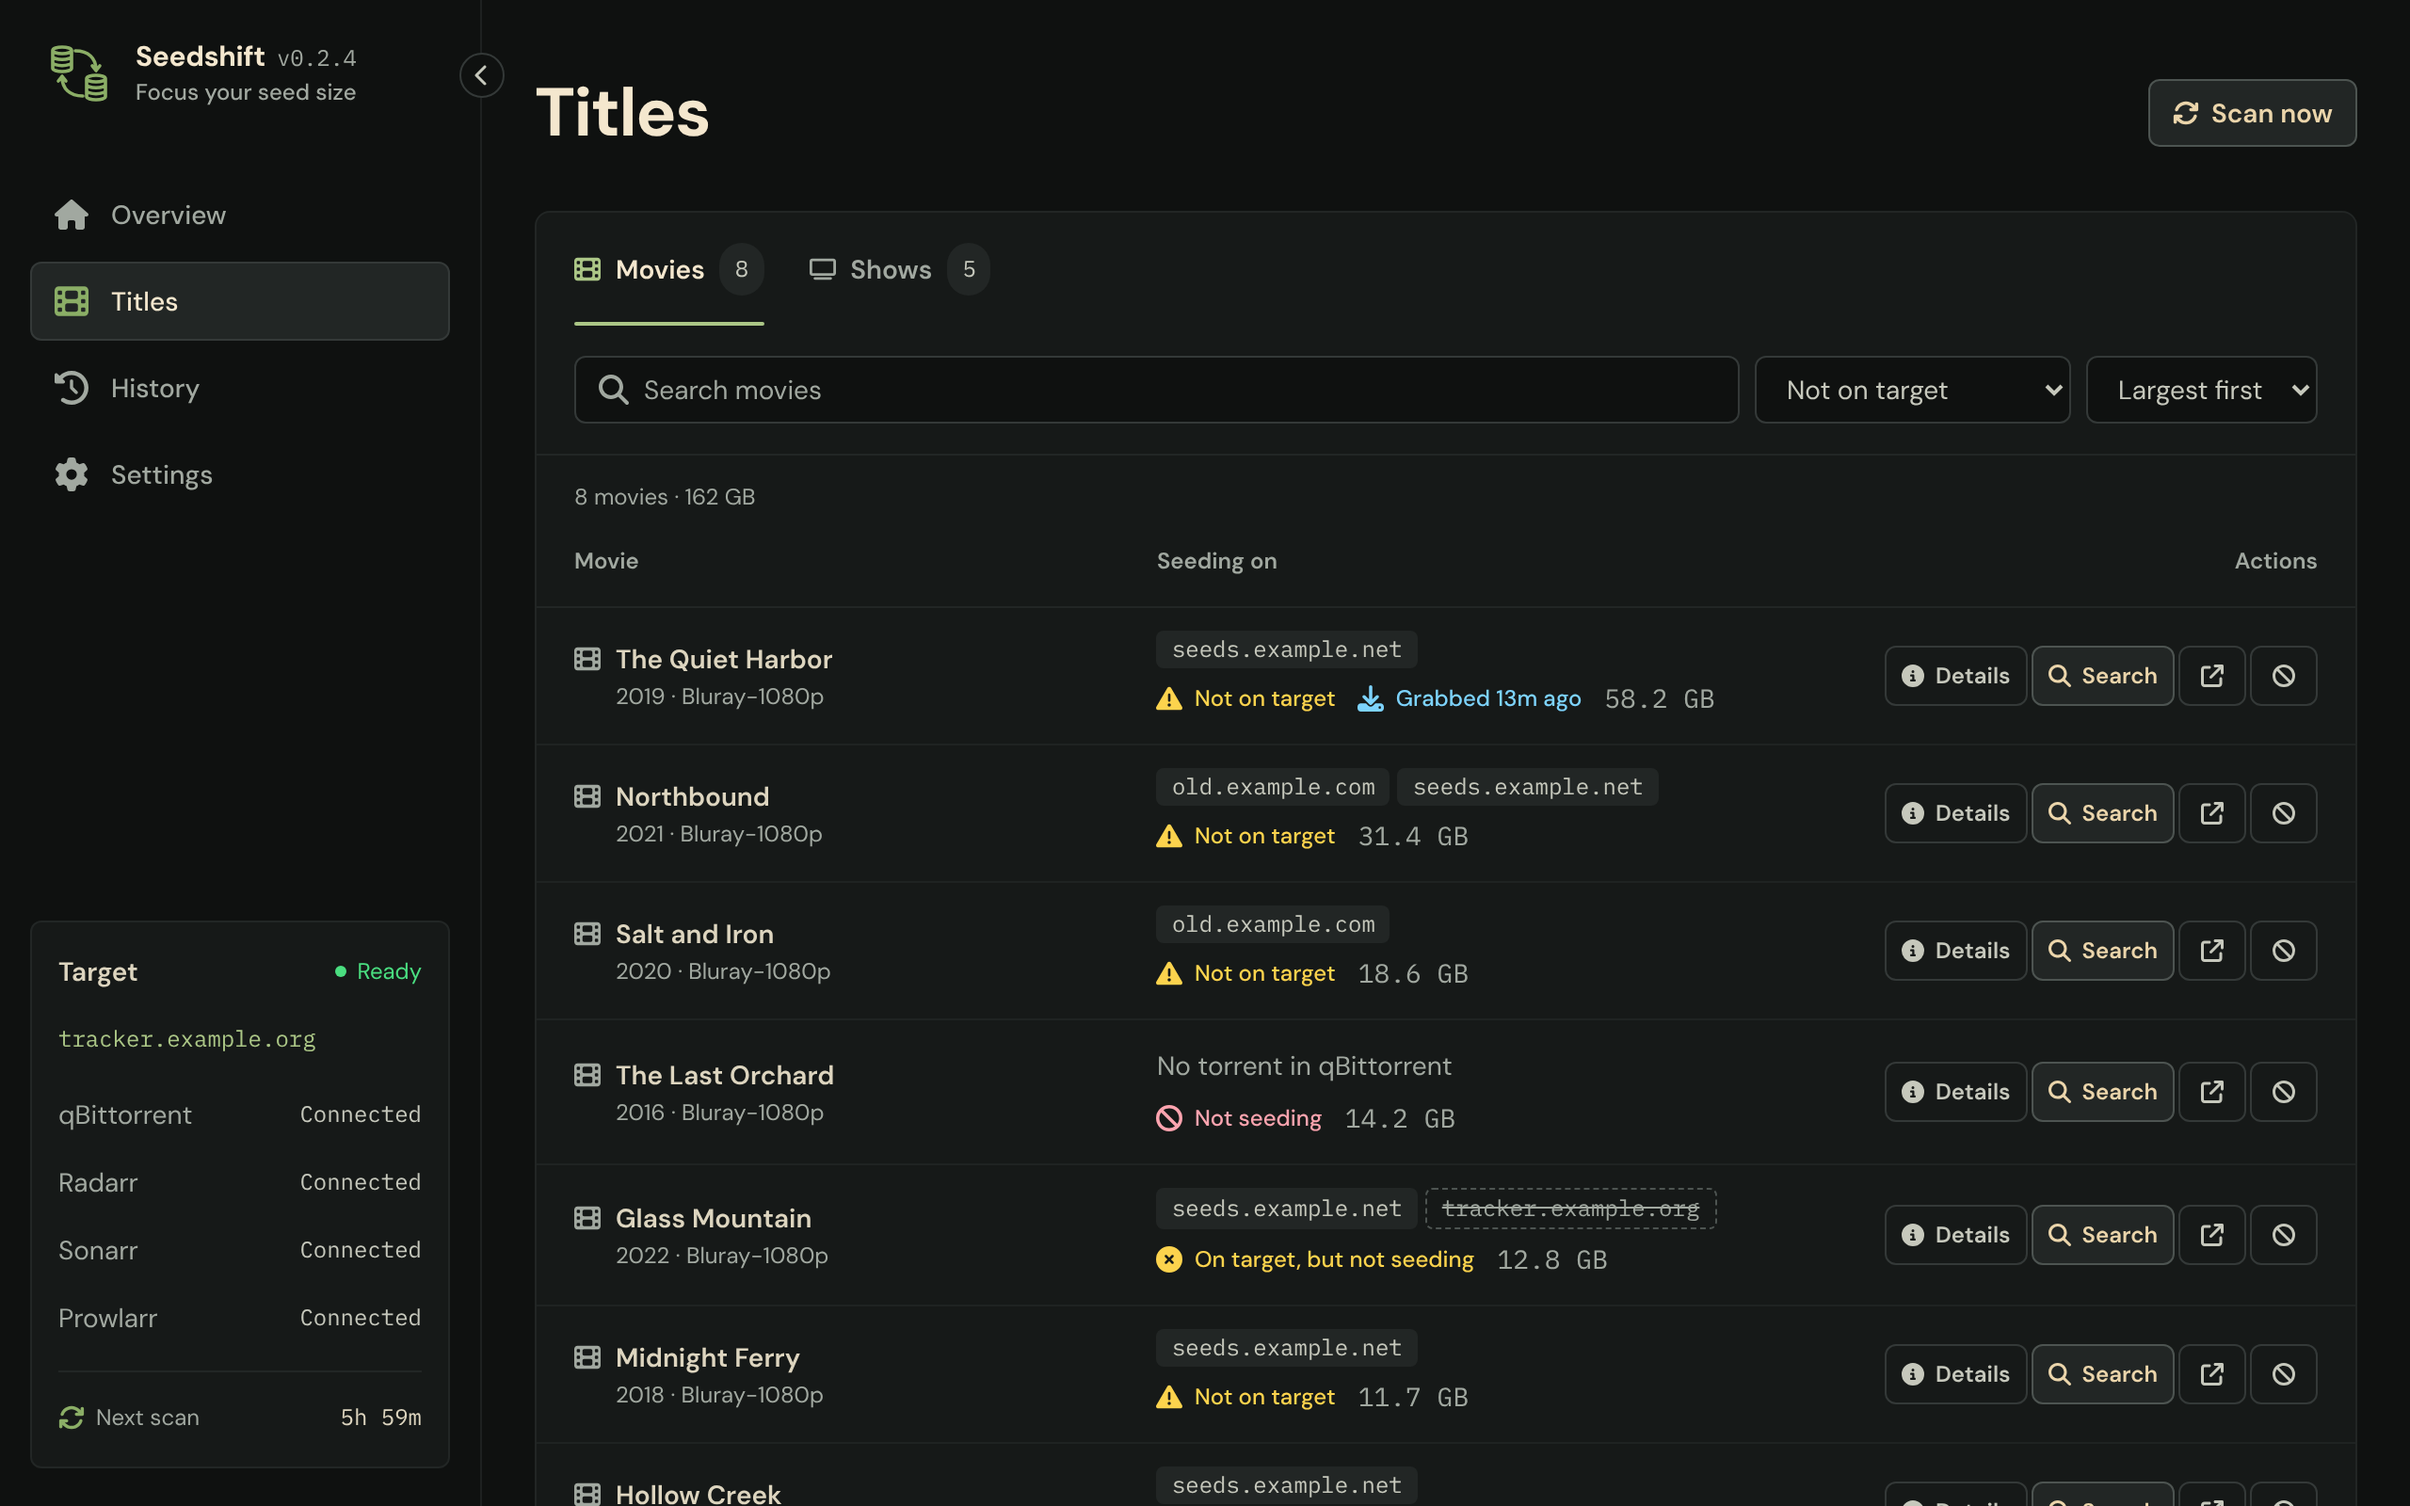
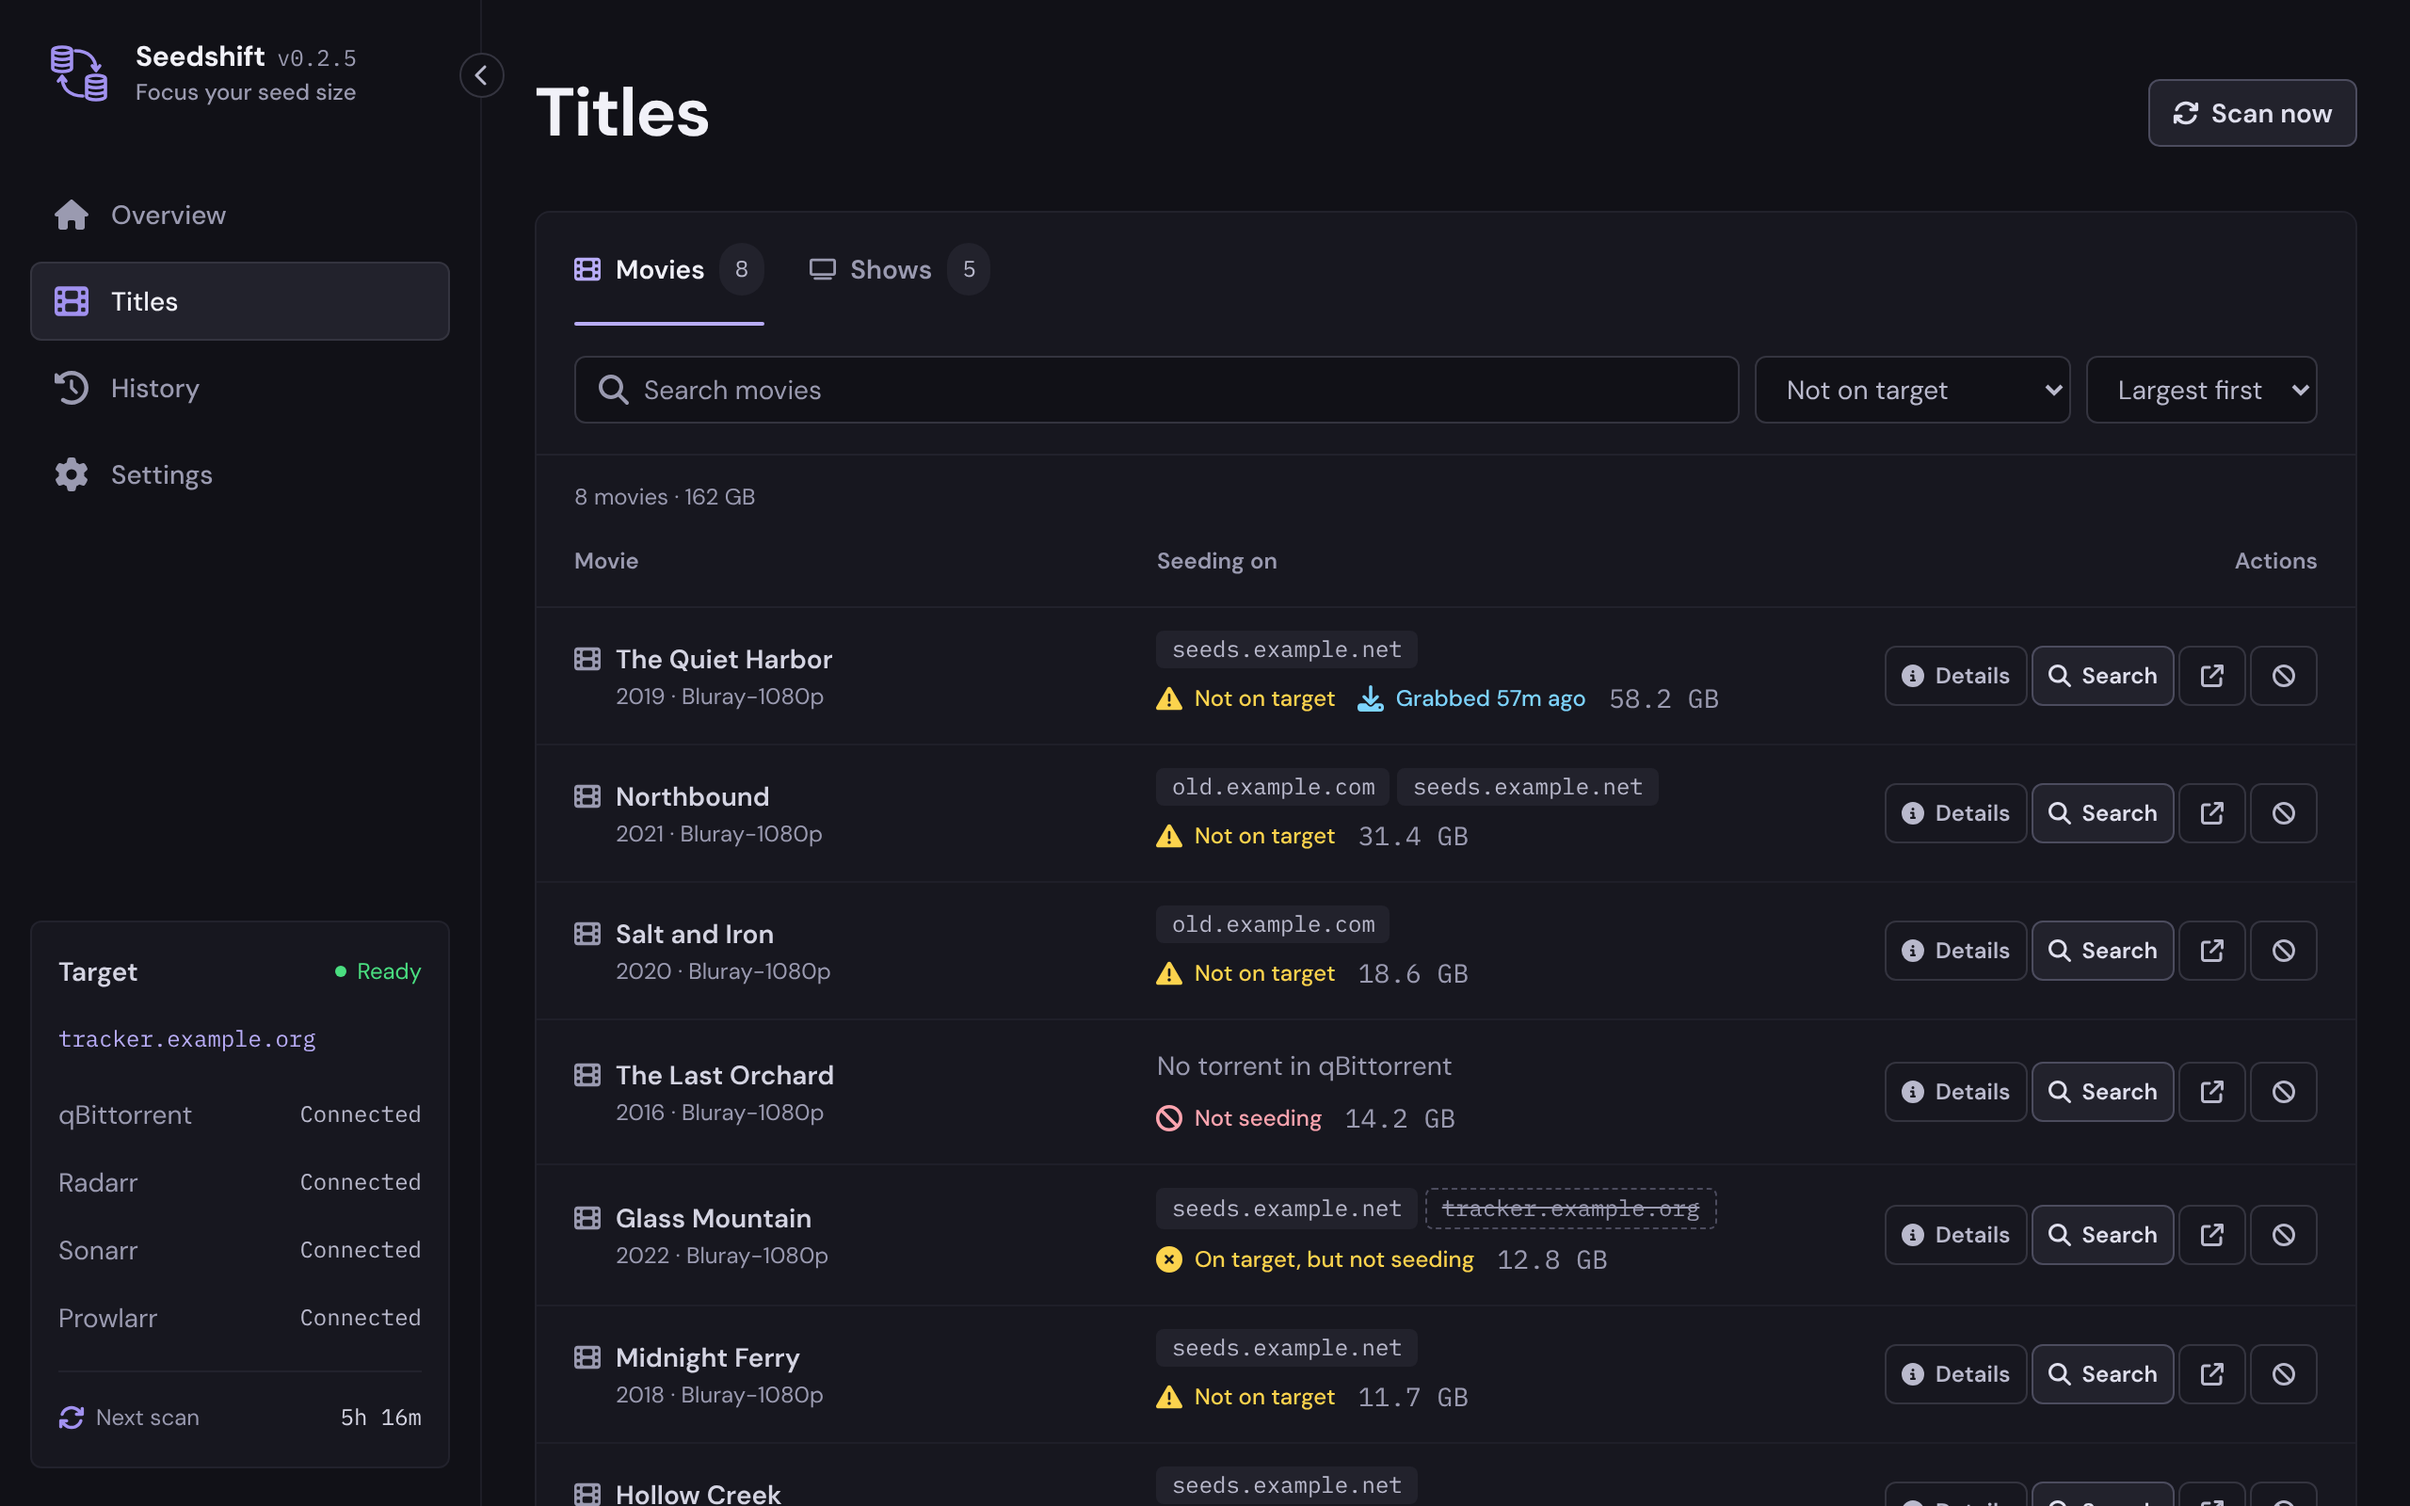
v0.2.6

diff --git a/static/ui/js/shell.js b/static/ui/js/shell.js
@@ -71,7 +71,11 @@ function renderServices(o) {
   const errors = o?.errors || [];
   const failing = new Set(errors.map((e) => e.source));
   const targets = o?.targets || [];
-  const overall = !targets.length ? ["warning", "No target"] : failing.size ? ["danger", `${failing.size} failed`] : ["success", "Ready"];
+  // Connection health, shown above the services. Says nothing about the target: that has its own heading.
+  const overall = !connections.length ? ["neutral", "None yet"]
+    : failing.size ? ["danger", `${failing.size} failed`]
+    : !o?.scanned_at ? ["neutral", "Not scanned yet"]
+    : ["success", "All connected"];
 
   const groups = [["qbittorrent", "qBittorrent"], ["radarr", "Radarr"], ["sonarr", "Sonarr"], ["prowlarr", "Prowlarr"]]
     .map(([key, label]) => [key, label, connections.filter((c) => c.type === key)])
@@ -99,15 +103,17 @@ function renderServices(o) {
   const next = scan?.running ? "Now" : o?.next_scan_at ? timeUntil(o.next_scan_at) : "Manual";
   replace(servicesEl,
     h("div", { class: "services__head" },
-      h("span", { class: "services__title" }, "Target"),
-      h("span", { class: `services__overall tone-${overall[0]}` }, h("span", { class: "dot" }), overall[1])),
+      h("span", { class: "services__title" }, targets.length > 1 ? "Target trackers" : "Target tracker")),
     h("div", { class: "target-host mono" }, targets.length ? targets.join(", ") : h("a", { class: "link", href: "/settings?section=target" }, "Choose a tracker")),
+    h("div", { class: "services__head" },
+      h("span", { class: "services__title" }, "Connections"),
+      h("span", { class: `services__overall tone-${overall[0]}` }, h("span", { class: "dot" }), overall[1])),
     h("ul", { class: "services__list" }, rows),
     h("div", { class: "services__sync" },
       h("span", { class: "services__sync-label", title: o?.scanned_at ? `Last scan ${ago(o.scanned_at)}` : "Not scanned yet" }, icon("arrows-rotate"), "Next scan"),
       h("span", { class: "mono services__sync-value" }, next)));
 
-  const summary = `Target ${targets.join(", ") || "not set"}. Next scan ${next}.`;
+  const summary = `Target tracker: ${targets.join(", ") || "not set"}. Connections: ${overall[1]}. Next scan ${next}.`;
   collapsedBadge.title = summary;
   collapsedBadge.setAttribute("aria-label", summary);
   collapsedBadge.classList.toggle("is-alert", failing.size > 0 || !targets.length);

diff --git a/static/ui/css/seedshift.css b/static/ui/css/seedshift.css
@@ -384,3 +384,32 @@
   margin-right: 0.375rem;
   vertical-align: -0.125rem;
 }
+
+/* ── Dusk: Seedshift's own colors ──────────────────────────────────────────
+   The shared tokens.css defines the Moss palette (Trailarr Parrk's). Dusk swaps the palette
+   values only: cool gray neutrals and a violet accent. Every semantic token (--accent, --text,
+   --surface…) points at these, so nothing else needs changing. Status colors stay as they are. */
+html[data-theme="dusk"] {
+  /* Neutrals: cool gray with a hint of violet */
+  --ink-0: #f1f1f8;
+  --ink-50: #ececf6;
+  --ink-100: #e0e0ee;
+  --ink-200: #d4d4e2;
+  --ink-300: #b9b9cc;
+  --ink-400: #9a9ab0;
+  --ink-500: #6e6e84;
+  --ink-600: #4c4c5e;
+  --ink-700: #34343f;
+  --ink-800: #22222c;
+  --ink-900: #17171f;
+  --ink-950: #111117;
+
+  /* Accent: violet (kept under the moss-* names the semantic tokens use) */
+  --moss-100: #e6e1fd;
+  --moss-200: #cfc6fa;
+  --moss-300: #b8acf6;
+  --moss-400: #a191ef;
+  --moss-500: #8d7de6;
+  --moss-600: #7563cf;
+  --moss-700: #5f4fae;
+}

diff --git a/static/ui/js/search-dialog.js b/static/ui/js/search-dialog.js
@@ -105,6 +105,7 @@ export function openSearch(item) {
     const err = h("div", {});
     const lines = [h("p", { class: "mono release__title" }, r.title),
       h("p", { class: "hint hint--lead" }, `${arr} downloads it (${bytes(r.size)}) to qBittorrent with its usual category and tags.`)];
+    lines.push(h("p", { class: "hint" }, "Downloading this counts against your ratio on the target, unless it's freeleech."));
     if (job.auto_replace) lines.push(notice("warning", "When it's downloaded, it replaces your current file."));
     if (r.same_release) lines.push(notice("info", "This might be the release you already have. Worth a quick check before you grab it."));
     if (r.rejected) lines.push(notice("warning", `${arr} would normally skip it: ${r.rejections.join("; ")}.`));

diff --git a/templates/shell.html b/templates/shell.html
@@ -1,5 +1,5 @@
 <!doctype html>
-<html lang="en" data-theme="moss">
+<html lang="en" data-theme="dusk">
 <head>
   <meta charset="utf-8">
   <meta name="viewport" content="width=device-width, initial-scale=1">

diff --git a/engine.py b/engine.py
@@ -33,7 +33,7 @@ from copy import deepcopy
 logging.basicConfig(level=logging.INFO, format="[seedshift] %(message)s")
 log = logging.getLogger("seedshift")
 
-APP_VERSION = "0.2.4"
+APP_VERSION = "0.2.6"
 
 CONFIG_DIR = os.environ.get("CONFIG_DIR", "/config")
 SETTINGS_FILE = os.path.join(CONFIG_DIR, "settings.json")

diff --git a/README.md b/README.md
@@ -91,7 +91,7 @@ To build the image yourself, see [CONTRIBUTING.md](CONTRIBUTING.md).
 docker compose pull && docker compose up -d
 ```
 
-To stay on one release, use a version tag such as `ghcr.io/grompty/seedshift:0.2.4` instead of `latest`.
+To stay on one release, use a version tag such as `ghcr.io/grompty/seedshift:0.2.6` instead of `latest`.
 
 ## Usage
 
@@ -105,6 +105,9 @@ http://YOUR-SERVER:8095
 2. Press **Scan now**. Seedshift reads every torrent and every file in your library. The first scan of a big library can take a few minutes.
 3. Pick your target tracker: press **Make target** next to it on the Overview, or enter it under **Settings → Target tracker**. Changing it later doesn't need a new scan.
 4. Open **Titles**. Everything listed there isn't on your target yet, largest first. Use **Search** on a title to find it on the target and grab it.
+
+> [!WARNING]
+> Grabbing downloads from your target tracker, so it counts against your ratio there unless the release is freeleech. Go a few titles at a time. See [Mind your ratio](#searching-the-target).
 
 ### Screenshots
 
@@ -142,6 +145,9 @@ Files are linked to torrents by **hardlink** when Seedshift can see your data sh
 ## Searching the target
 
 **Search** on a title shows releases from your target tracker only. For a show it searches the whole season, so season packs come first. **Grab** sends the release to Radarr or Sonarr, which download it with your usual quality profile, category and tags.
+
+> [!WARNING]
+> **Mind your ratio.** Every release you grab downloads from your target tracker and counts against your ratio there, unless it's freeleech. Moving a lot of seed size at once can drop your ratio quickly. Check the tracker's freeleech and ratio rules, keep a buffer, and grab a few titles at a time.
 
 Under **Settings → Target tracker → Search with** you choose how:
 

diff --git a/CHANGELOG.md b/CHANGELOG.md
@@ -1,5 +1,15 @@
 # Changelog
 
+## v0.2.6
+
+- Sidebar: the heading now reads **Target tracker** (or **Target trackers**), with no status next to it. Connection health has its own line above the services: **All connected**, **N failed** or **Not scanned yet**.
+- README: the ratio warning is also shown under Usage, next to the first mention of Search.
+
+## v0.2.5
+
+- New color scheme, Dusk: violet accent on cool gray, so Seedshift no longer looks identical to Trailarr Parrk. The icon follows it.
+- Ratio warning: every Grab confirm notes that downloading counts against your ratio on the target unless it's freeleech, and the README explains why to grab a few titles at a time.
+
 ## v0.2.4
 
 - **History page:** every grab made through Seedshift, with its result. Grabbed titles get a **Grabbed** tag on Titles.

diff --git a/AGENTS.md b/AGENTS.md
@@ -12,6 +12,7 @@ Flask + Waitress app that lists Radarr/Sonarr titles not seeding on a chosen tra
 ## Front end rules
 - Same system as Trailarr Parrk v0.8.0: vanilla ES modules, `h()` builder, History router, tokens in `css/tokens.css`, Font Awesome SVGs in `js/icons.js`, native `<dialog>`.
 - Seedshift-only styles go in `css/seedshift.css`; keep the shared CSS files identical to Trailarr Parrk so they can be synced.
+- Theme is Dusk (`data-theme="dusk"`), defined at the bottom of `css/seedshift.css` by overriding the palette variables only.
 - Filters live in the URL.
 
 ## Behavior to keep

diff --git a/CONTRIBUTING.md b/CONTRIBUTING.md
@@ -86,7 +86,7 @@ Things that must keep working:
 
 Images are built by GitHub Actions and published to `ghcr.io/grompty/seedshift`:
 
-- A tag such as `v0.2.4` publishes `0.2.4`, `0.2` and `latest`.
+- A tag such as `v0.2.6` publishes `0.2.6`, `0.2` and `latest`.
 - A push to `main` publishes `edge`, for testing.
 
 To release:
@@ -96,5 +96,5 @@ To release:
 3. Commit, tag and push:
 
 ```bash
-git commit -am "v0.2.4" && git tag v0.2.4 && git push && git push --tags
+git commit -am "v0.2.6" && git tag v0.2.6 && git push && git push --tags
 ```
